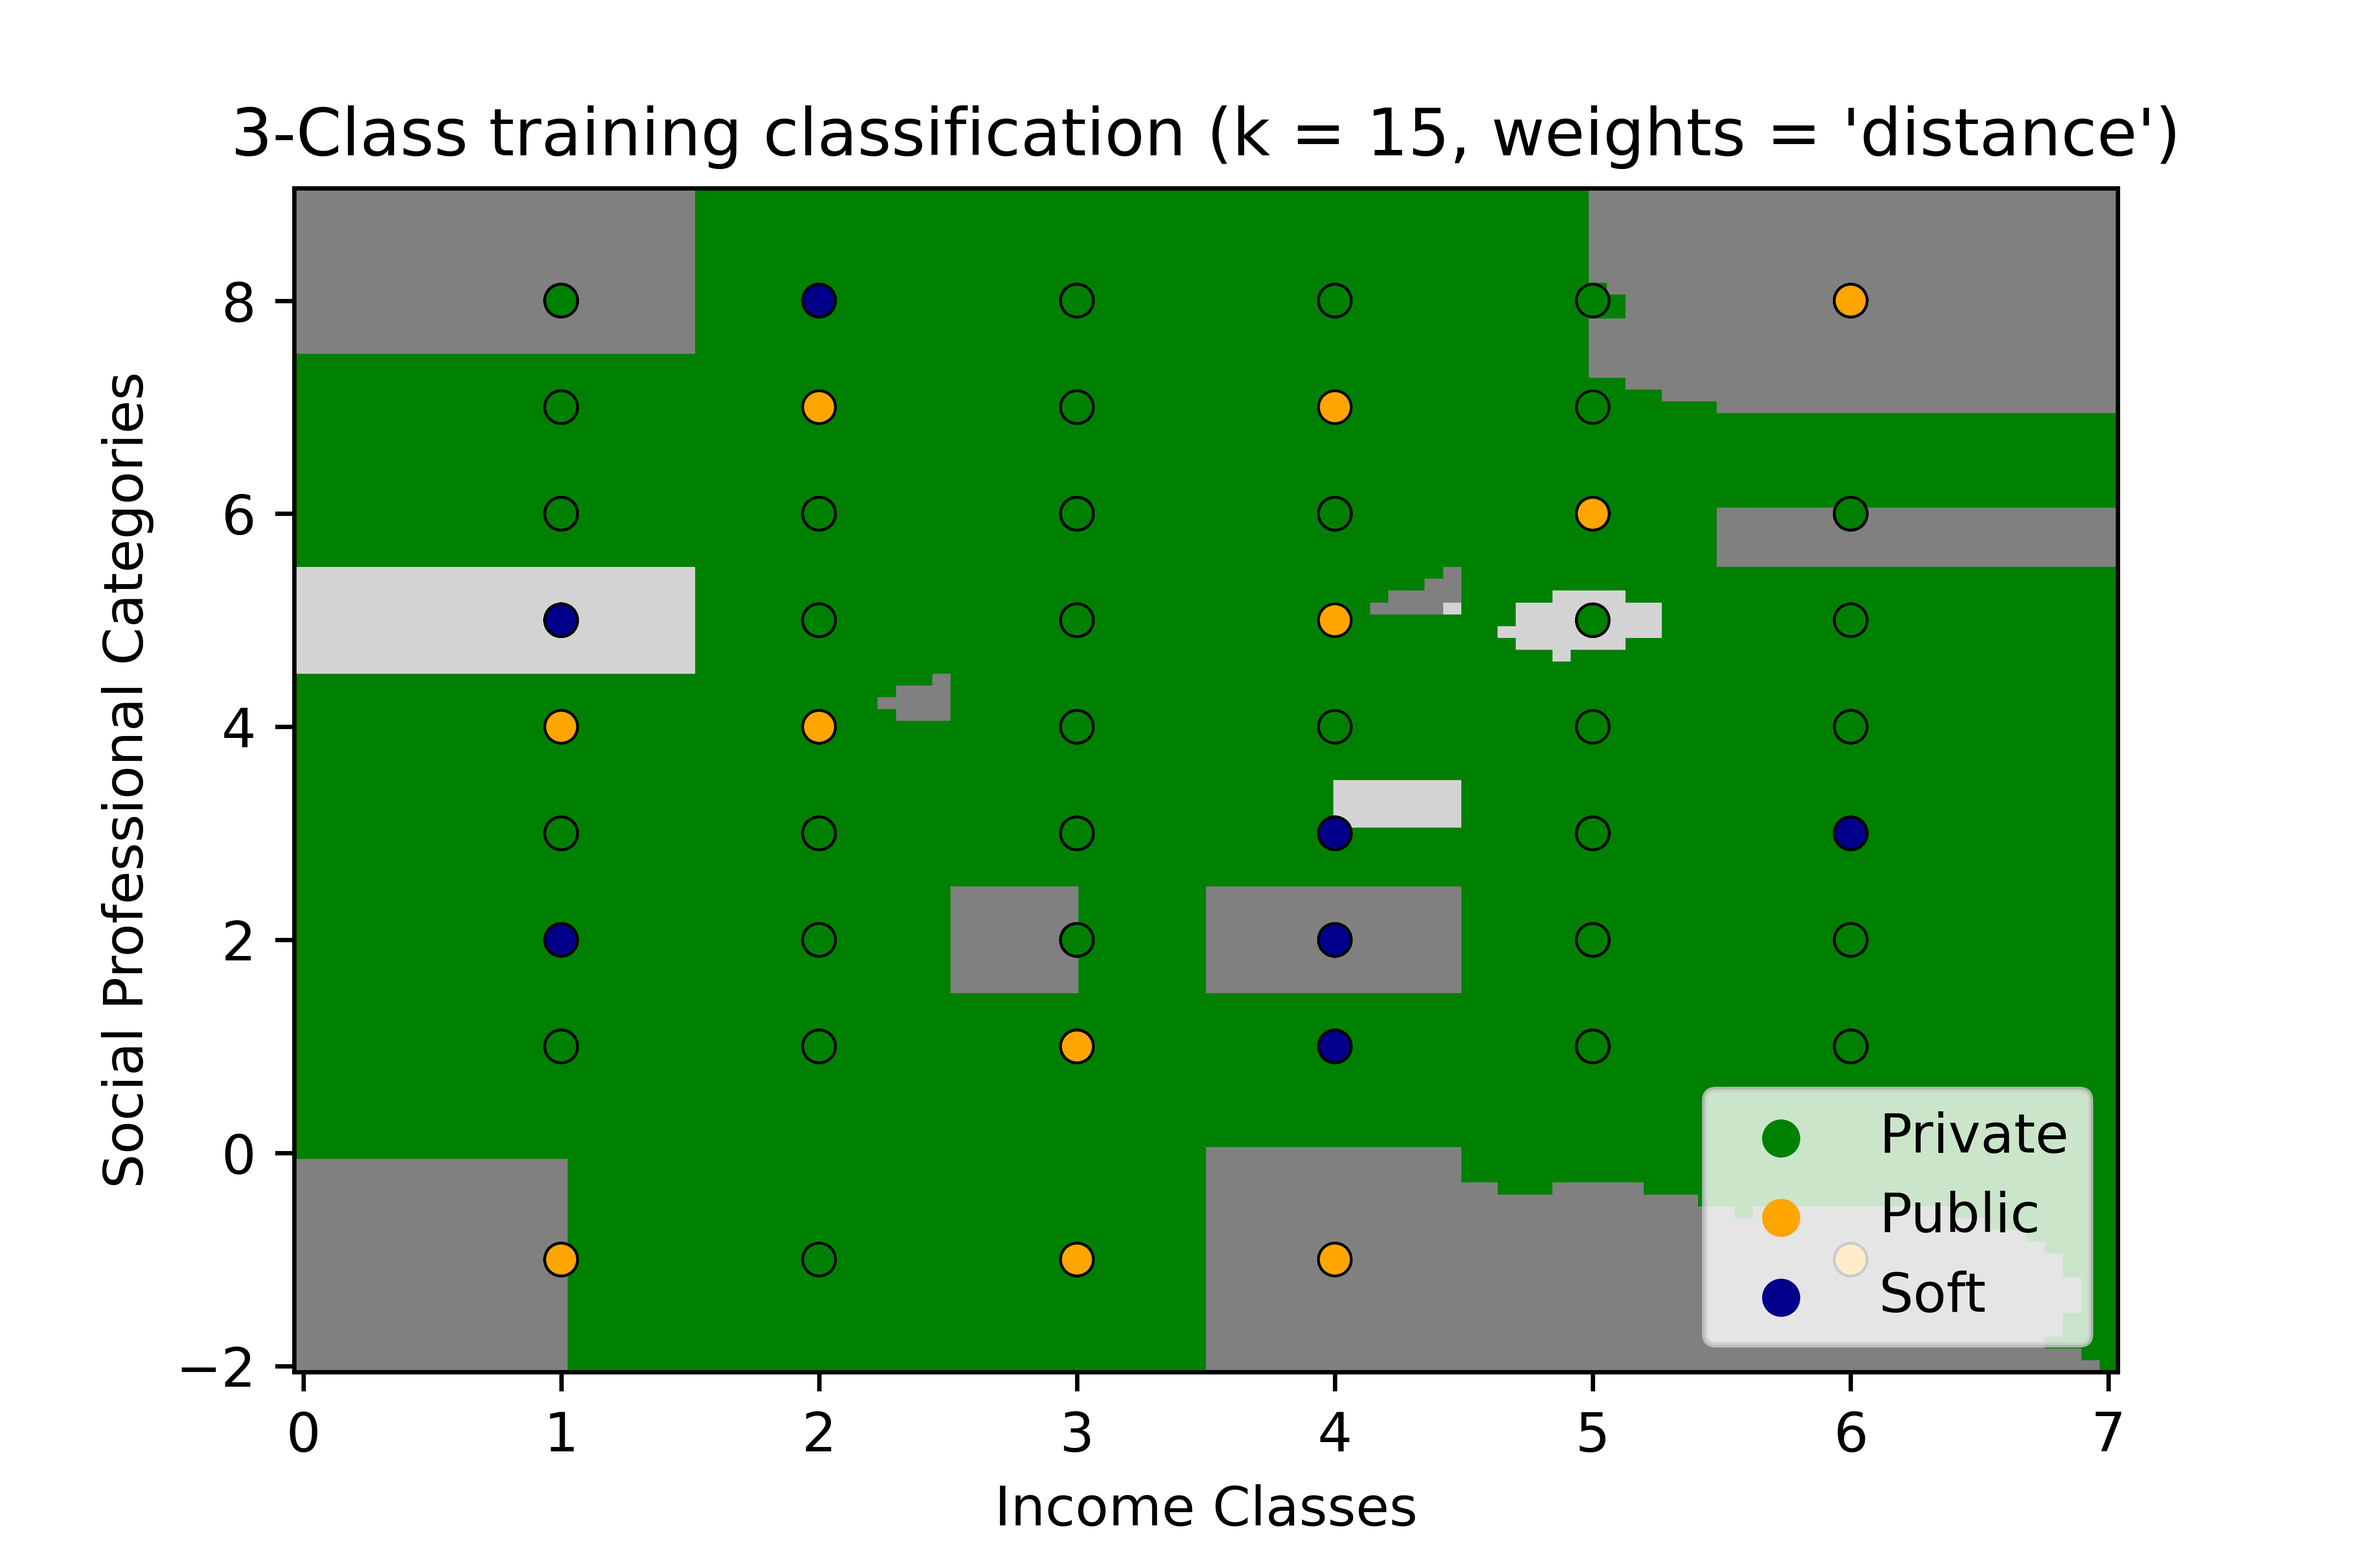
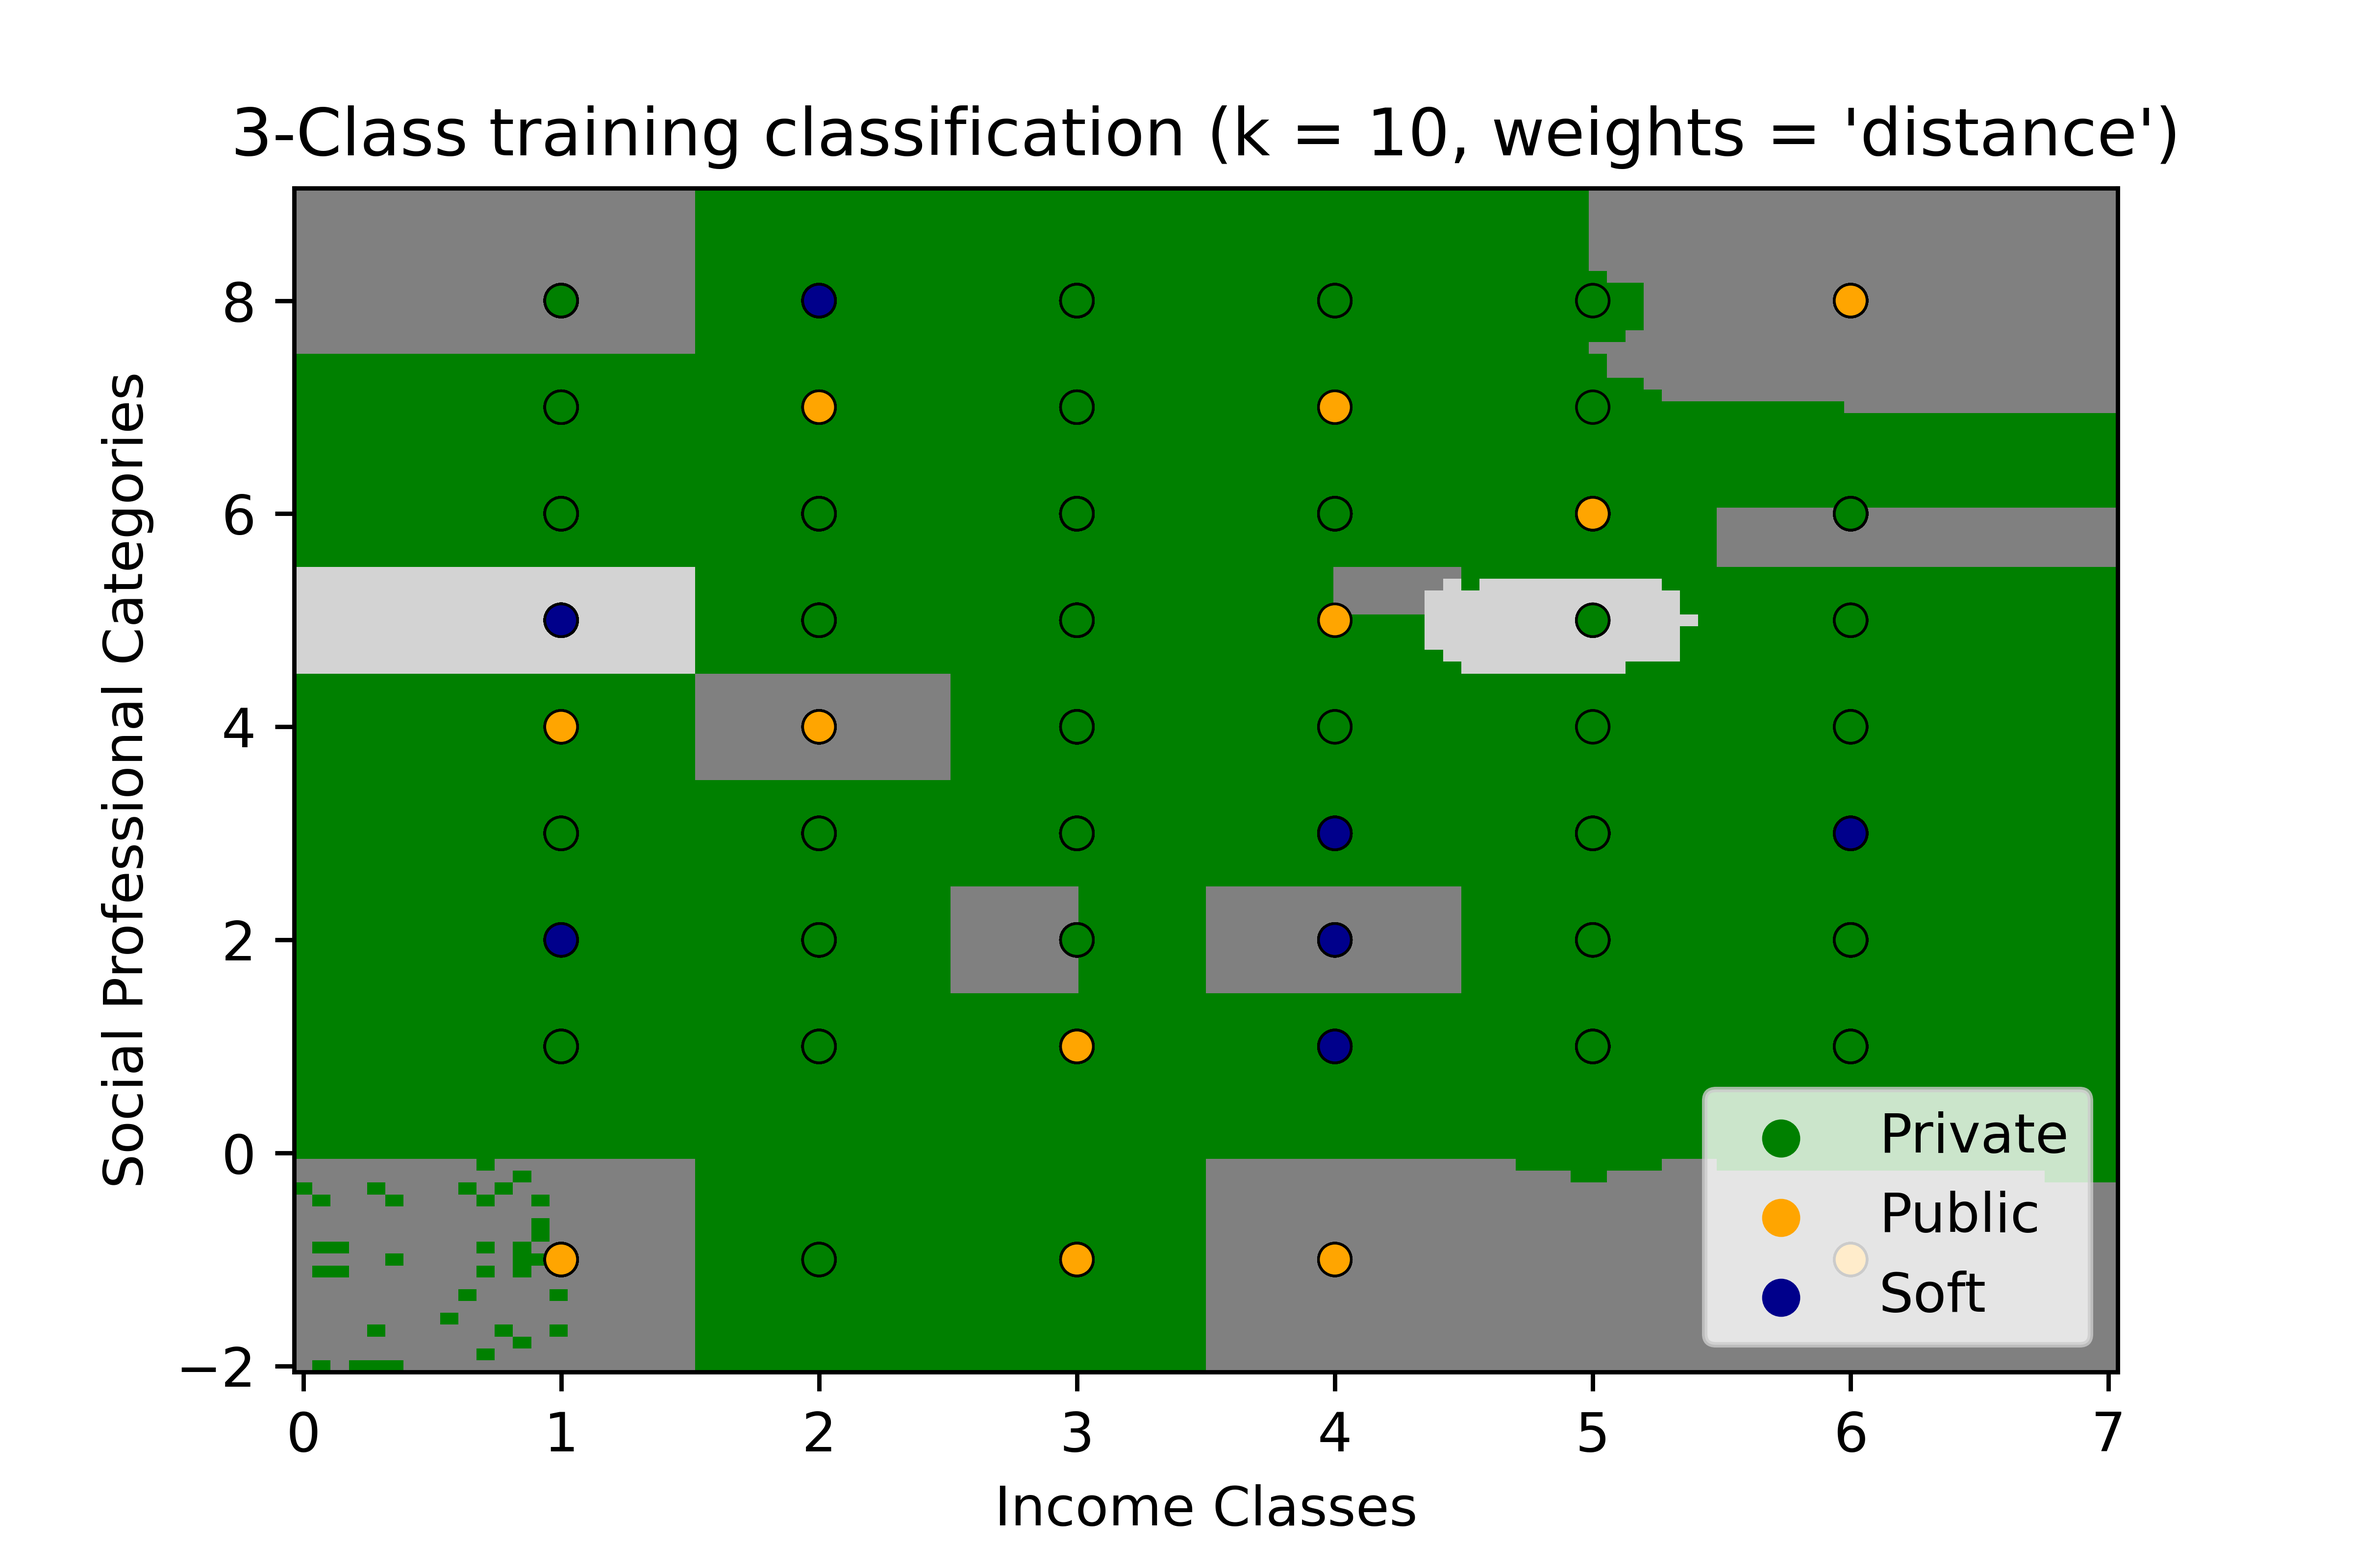
commit

diff --git a/Subquestion_2.py b/Subquestion_2.py
@@ -112,7 +112,7 @@ import seaborn as sns
 
 df_2 = Data_Prep.df_final
 
-n_neighbors = 15
+n_neighbors = 10
 
 #splitting dataset into train, validation and test data
 #X_train,X_test,Y_train,Y_test = train_test_split(X,y,test_size=0.3,random_state = 1)
